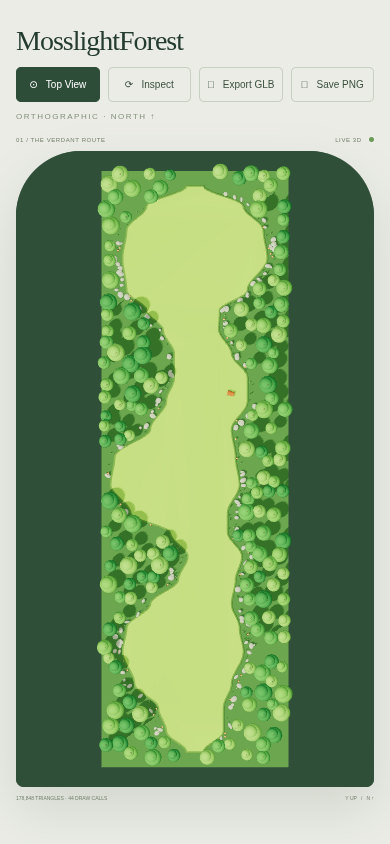
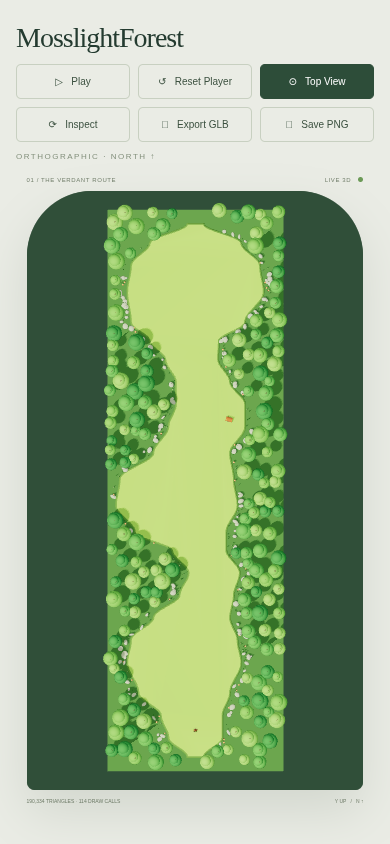
Add playable archer with keyboard and touch movement

Changed region(s): [[0.0308, 0.0308, 0.9846, 0.955]]

diff --git a/src/main.ts b/src/main.ts
@@ -1,4 +1,4 @@
-import './style.css';import * as T from 'three';import {terrain} from './terrain';import {props,chest} from './props';import {lighting} from './lighting';import {cameraSystem} from './camera';import {download,exportLevel} from './export';
-const viewport=document.querySelector<HTMLDivElement>('#viewport')!;const renderer=new T.WebGLRenderer({antialias:true,preserveDrawingBuffer:true});renderer.setPixelRatio(Math.min(devicePixelRatio,1.75));renderer.shadowMap.enabled=true;renderer.shadowMap.type=T.PCFSoftShadowMap;renderer.setClearColor(0x304f39);renderer.outputColorSpace=T.SRGBColorSpace;renderer.toneMapping=T.ACESFilmicToneMapping;renderer.toneMappingExposure=1.12;viewport.appendChild(renderer.domElement);const scene=new T.Scene();const levelRoot=new T.Group();levelRoot.name='levelRoot';levelRoot.add(terrain(),props(),chest());scene.add(levelRoot);lighting(scene);const {camera,controls,top,inspect}=cameraSystem(renderer.domElement);let mode='top';function resize(){renderer.setSize(viewport.clientWidth,viewport.clientHeight);if(mode==='top')top(viewport.clientWidth/viewport.clientHeight)}new ResizeObserver(resize).observe(viewport);resize();function setMode(m:string){mode=m;document.querySelector('#top')!.classList.toggle('active',m==='top');document.querySelector('#inspect')!.classList.toggle('active',m==='inspect');if(m==='top')top(viewport.clientWidth/viewport.clientHeight);else inspect();document.querySelector('#hint')!.textContent=m==='top'?'ORTHOGRAPHIC · NORTH ↑':'DRAG TO ORBIT · SCROLL TO ZOOM · RIGHT-DRAG TO PAN'}document.querySelector('#top')!.addEventListener('click',()=>setMode('top'));document.querySelector('#inspect')!.addEventListener('click',()=>setMode('inspect'));
-async function glb(){return exportLevel(levelRoot)}async function png(){const old=mode;setMode('top');renderer.setPixelRatio(1);renderer.setSize(1080,1920,false);top(9/16);renderer.render(scene,camera);const data=renderer.domElement.toDataURL('image/png');renderer.setPixelRatio(Math.min(devicePixelRatio,1.75));resize();if(old==='inspect')setMode(old);return data}document.querySelector('#glb')!.addEventListener('click',async()=>{const el=document.querySelector('#glb')!;el.textContent='Exporting…';try{const result=await glb();download(new Blob([result.buffer],{type:'model/gltf-binary'}),'forest-level.glb')}finally{el.textContent='↧ Export GLB'}});document.querySelector('#png')!.addEventListener('click',async()=>{const data=await png();const blob=await(await fetch(data)).blob();download(blob,'forest-level.png')});
-renderer.setAnimationLoop(()=>{if(controls.enabled)controls.update();renderer.render(scene,camera);document.querySelector('#stats')!.textContent=`${renderer.info.render.triangles.toLocaleString()} TRIANGLES · ${renderer.info.render.calls} DRAW CALLS`});Object.assign(window,{forest:{glb,png,scene,levelRoot,camera,renderer,setMode,ready:true}});
+import './style.css';import {createPlayer} from './movement';import {createInput} from './input';import * as T from 'three';import {terrain} from './terrain';import {props,chest} from './props';import {lighting} from './lighting';import {cameraSystem} from './camera';import {download,exportLevel} from './export';
+const viewport=document.querySelector<HTMLDivElement>('#viewport')!;const renderer=new T.WebGLRenderer({antialias:true,preserveDrawingBuffer:true});renderer.setPixelRatio(Math.min(devicePixelRatio,1.75));renderer.shadowMap.enabled=true;renderer.shadowMap.type=T.PCFSoftShadowMap;renderer.setClearColor(0x304f39);renderer.outputColorSpace=T.SRGBColorSpace;renderer.toneMapping=T.ACESFilmicToneMapping;renderer.toneMappingExposure=1.12;viewport.appendChild(renderer.domElement);const scene=new T.Scene();const levelRoot=new T.Group();levelRoot.name='levelRoot';levelRoot.add(terrain(),props(),chest());scene.add(levelRoot);lighting(scene);const player=createPlayer(levelRoot);scene.add(player.root);const input=createInput(document.querySelector<HTMLElement>('#joystick')!);const {camera,controls,top,inspect,play}=cameraSystem(renderer.domElement);let mode='top';function resize(){renderer.setSize(viewport.clientWidth,viewport.clientHeight);if(mode==='top')top(viewport.clientWidth/viewport.clientHeight);if(mode==='play')play(viewport.clientWidth/viewport.clientHeight,player.root.position,true)}new ResizeObserver(resize).observe(viewport);resize();function setMode(m:string){mode=m;player.velocity.set(0,0);input.setActive(m==='play');document.querySelector('#play')!.classList.toggle('active',m==='play');document.querySelector('#viewport')!.classList.toggle('playing',m==='play');document.querySelector('#top')!.classList.toggle('active',m==='top');document.querySelector('#inspect')!.classList.toggle('active',m==='inspect');if(m==='top')top(viewport.clientWidth/viewport.clientHeight);else if(m==='play')play(viewport.clientWidth/viewport.clientHeight,player.root.position,true);else inspect();document.querySelector('#hint')!.textContent=m==='play'?'WASD / TOUCH · NORTH ↑':m==='top'?'ORTHOGRAPHIC · NORTH ↑':'DRAG TO ORBIT · SCROLL TO ZOOM · RIGHT-DRAG TO PAN'}document.querySelector('#play')!.addEventListener('click',()=>setMode('play'));document.querySelector('#reset')!.addEventListener('click',()=>{input.clear();player.reset();if(mode==='play')play(viewport.clientWidth/viewport.clientHeight,player.root.position,true)});document.querySelector('#top')!.addEventListener('click',()=>setMode('top'));document.querySelector('#inspect')!.addEventListener('click',()=>setMode('inspect'));
+async function glb(){return exportLevel(levelRoot)}async function png(){const old=mode;const visible=player.root.visible;player.root.visible=false;setMode('top');renderer.setPixelRatio(1);renderer.setSize(1080,1920,false);top(9/16);renderer.render(scene,camera);const data=renderer.domElement.toDataURL('image/png');renderer.setPixelRatio(Math.min(devicePixelRatio,1.75));resize();player.root.visible=visible;setMode(old);return data}document.querySelector('#glb')!.addEventListener('click',async()=>{const el=document.querySelector('#glb')!;el.textContent='Exporting…';try{const result=await glb();download(new Blob([result.buffer],{type:'model/gltf-binary'}),'forest-level.glb')}finally{el.textContent='↧ Export GLB'}});document.querySelector('#png')!.addEventListener('click',async()=>{const data=await png();const blob=await(await fetch(data)).blob();download(blob,'forest-level.png')});
+let lastTime=performance.now();renderer.setAnimationLoop(()=>{const now=performance.now(),dt=(now-lastTime)/1000;lastTime=now;if(mode==='play'){player.update(dt,input.read());play(viewport.clientWidth/viewport.clientHeight,player.root.position,false,dt)}else player.animate(Math.min(dt,.1),0);if(controls.enabled)controls.update();renderer.render(scene,camera);document.querySelector('#stats')!.textContent=`${renderer.info.render.triangles.toLocaleString()} TRIANGLES · ${renderer.info.render.calls} DRAW CALLS`});Object.assign(window,{forest:{player,input,glb,png,scene,levelRoot,camera,renderer,setMode,ready:true}});

diff --git a/src/character.ts b/src/character.ts
@@ -1,0 +1,27 @@
+import * as T from 'three';
+/** Short-haired Archer reference; front faces local -Z. */
+export function createArcher(){
+ const root=new T.Group();root.name='Archer player';const body=new T.Group();root.add(body);
+ const mat=(color:number,metalness=0)=>new T.MeshStandardMaterial({color,roughness:.72,metalness});
+ const skin=mat(0xf0bd89),hair=mat(0x61341e),hairLight=mat(0x804826),green=mat(0x526d24),lime=mat(0x91a73b),leather=mat(0x51382b),gold=mat(0xc69a42,.35),pants=mat(0x35312d),white=mat(0xf5ead2),black=mat(0x211b16),iris=mat(0x86a83b);
+ function mesh(parent:T.Object3D,name:string,geo:T.BufferGeometry,m:T.Material,x:number,y:number,z:number,sx=1,sy=sx,sz=sx){const o=new T.Mesh(geo,m);o.name=name;o.position.set(x,y,z);o.scale.set(sx,sy,sz);o.castShadow=true;parent.add(o);return o}
+ const sphere=new T.SphereGeometry(1,16,12),box=new T.BoxGeometry(1,1,1);
+ function ball(p:T.Object3D,n:string,m:T.Material,x:number,y:number,z:number,a:number,b=a,c=a){return mesh(p,n,sphere,m,x,y,z,a,b,c)}
+ function link(p:T.Object3D,n:string,a:T.Vector3,b:T.Vector3,r:number,m:T.Material){const o=mesh(p,n,new T.CylinderGeometry(r,r*.85,a.distanceTo(b),8),m,0,0,0);o.position.copy(a).add(b).multiplyScalar(.5);o.quaternion.setFromUnitVectors(new T.Vector3(0,1,0),b.clone().sub(a).normalize());return o}
+ const legs:T.Group[]=[];const arms:T.Group[]=[];
+ for(const side of [-1,1]){const leg=new T.Group();leg.position.set(side*.17,.72,0);body.add(leg);legs.push(leg);ball(leg,'Trouser leg',pants,0,-.19,0,.135,.28,.14);ball(leg,'Leather boot',leather,0,-.56,-.055,.16,.16,.23);mesh(leg,'Gold boot cuff',box,gold,0,-.37,0,.29,.09,.29);const arm=new T.Group();arm.position.set(side*.34,1.12,0);body.add(arm);arms.push(arm);ball(arm,'Sleeve',green,0,-.1,0,.15,.2,.16);ball(arm,'Forearm',skin,side*.035,-.33,-.035,.095,.18,.1);mesh(arm,'Bracer',box,leather,side*.04,-.35,-.035,.21,.17,.22);ball(arm,'Gloved hand',leather,side*.04,-.52,-.05,.105);ball(body,'Shoulder armor',gold,side*.32,1.15,0,.19,.085,.2)}
+ ball(body,'Leather cuirass',leather,0,.99,0,.33,.35,.21);mesh(body,'Belt',box,leather,0,.78,-.015,.65,.12,.44);mesh(body,'Buckle',box,gold,0,.78,-.25,.17,.15,.045);mesh(body,'Buckle inset',box,leather,0,.78,-.28,.09,.075,.02);
+ for(const side of [-1,1]){const skirt=mesh(body,'Split green tunic',box,green,side*.18,.64,-.08,.29,.35,.32);skirt.rotation.z=side*.15;mesh(skirt,'Tunic gold hem',box,gold,0,-.46,0,1,.08,1.03)}
+ const cape=new T.Group();cape.position.set(0,1.23,.18);body.add(cape);const shape=new T.Shape();shape.moveTo(-.23,0);shape.quadraticCurveTo(-.42,-.35,-.52,-.88);shape.lineTo(-.22,-.8);shape.lineTo(0,-.99);shape.lineTo(.18,-.82);shape.lineTo(.48,-.9);shape.quadraticCurveTo(.4,-.35,.23,0);shape.closePath();const capeMesh=mesh(cape,'Layered green cape',new T.ExtrudeGeometry(shape,{depth:.035,bevelEnabled:true,bevelSize:.025,bevelThickness:.02,bevelSegments:2,steps:1}),green,0,0,0);capeMesh.rotation.x=-.2;
+ ball(body,'Head',skin,0,1.56,-.015,.31,.32,.28);ball(body,'Hair crown',hair,0,1.77,.025,.34,.22,.29);
+ for(let i=0;i<9;i++){const a=i/9*Math.PI*2;const tuft=mesh(body,'Swept pointed hair lock',new T.ConeGeometry(.145,.36,6),i%2?hair:hairLight,Math.cos(a)*.24,1.8+Math.sin(i*4)*.035,Math.sin(a)*.22);tuft.rotation.z=Math.cos(a)*-.95;tuft.rotation.x=Math.sin(a)*.8}
+ for(const side of [-1,1]){ball(body,'Ear',skin,side*.3,1.54,0,.07,.1,.06);ball(body,'Eye white',white,side*.115,1.56,-.262,.072,.083,.025);ball(body,'Green eye',iris,side*.115,1.56,-.283,.04,.059,.012);ball(body,'Pupil',black,side*.115,1.56,-.293,.02,.043,.007);ball(body,'Eye glint',white,side*.105,1.59,-.3,.012);const brow=mesh(body,'Determined eyebrow',box,hair,side*.12,1.66,-.273,.14,.032,.03);brow.rotation.z=side*-.18}
+ ball(body,'Nose',skin,0,1.48,-.29,.045,.05,.05);mesh(body,'Mouth',box,leather,0,1.39,-.26,.09,.014,.012);
+ const scarf=mesh(body,'Green scarf collar',new T.TorusGeometry(.28,.1,8,24),lime,0,1.3,-.015);scarf.rotation.x=Math.PI/2;ball(body,'Scarf front fold',green,0,1.22,-.22,.3,.13,.1);
+ const strap=mesh(body,'Diagonal quiver strap',box,gold,0,1.02,-.219,.08,.58,.035);strap.rotation.z=-.58;
+ const quiver=new T.Group();quiver.position.set(-.23,1.12,.29);quiver.rotation.z=-.35;body.add(quiver);mesh(quiver,'Leather quiver',new T.CylinderGeometry(.13,.1,.55,12),leather,0,0,0);for(const y of [-.23,.23]){const rim=mesh(quiver,'Quiver gold rim',new T.TorusGeometry(.13,.022,6,16),gold,0,y,0);rim.rotation.x=Math.PI/2}for(let i=0;i<5;i++){const x=(i%3-1)*.07,z=Math.floor(i/3)*.08;link(quiver,'Arrow shaft',new T.Vector3(x,.1,z),new T.Vector3(x,.68,z),.012,leather);const f=mesh(quiver,'White feather fletching',new T.ConeGeometry(.052,.19,4),white,x,.6,z);f.rotation.z=.15}
+ const bow=new T.Group();arms[1].add(bow);bow.position.set(.11,-.45,-.1);const curve=new T.CatmullRomCurve3([new T.Vector3(0,-.52,0),new T.Vector3(.2,-.3,0),new T.Vector3(.23,0,0),new T.Vector3(.2,.3,0),new T.Vector3(0,.52,0)]);mesh(bow,'Golden recurved bow',new T.TubeGeometry(curve,24,.035,6,false),gold,0,0,0);link(bow,'Bow string',new T.Vector3(0,-.52,0),new T.Vector3(0,.52,0),.007,white);mesh(bow,'Bow grip',box,leather,.23,0,0,.09,.17,.08);
+ // Soft contact shadow, separate from all environment exports.
+ const canvas=document.createElement('canvas');canvas.width=64;canvas.height=64;const ctx=canvas.getContext('2d')!;const gradient=ctx.createRadialGradient(32,32,0,32,32,32);gradient.addColorStop(0,'rgba(24,40,20,.3)');gradient.addColorStop(1,'rgba(24,40,20,0)');ctx.fillStyle=gradient;ctx.fillRect(0,0,64,64);const shadow=new T.Mesh(new T.PlaneGeometry(1.5,1.5),new T.MeshBasicMaterial({map:new T.CanvasTexture(canvas),transparent:true,depthWrite:false}));shadow.rotation.x=-Math.PI/2;shadow.position.y=.006;root.add(shadow);
+ let phase=0;return{root,animate(dt:number,speed:number){phase+=dt*(speed>.05?10:2);const walking=Math.min(1,speed/4.8);body.position.y=Math.sin(phase*2)*.025*walking+Math.sin(phase)*.009*(1-walking);legs.forEach((l,i)=>l.rotation.x=Math.sin(phase+i*Math.PI)*.5*walking);arms.forEach((a,i)=>a.rotation.x=-Math.sin(phase+i*Math.PI)*.3*walking);cape.rotation.x=Math.sin(phase)*.04+walking*.12}};
+}

diff --git a/src/style.css b/src/style.css
@@ -1,2 +1,3 @@
 *{box-sizing:border-box}body{margin:0;background:#eaece5;color:#243b30;font-family:Arial,sans-serif}#app{min-height:100vh;display:flex;justify-content:center;gap:70px;padding:40px}aside{width:280px;position:relative;padding-top:12px;display:flex;flex-direction:column}.brand{font:bold 38px Georgia;color:#244631;text-decoration:none;margin-bottom:46px}.brand span{color:#86a16a;font-size:27px}.eyebrow{font-size:10px;letter-spacing:2px;font-weight:600;color:#73816f}h1{font:normal 58px/.98 Georgia,serif;letter-spacing:-2px;margin:20px 0}.intro{font:italic 20px/1.5 Georgia;color:#71816a;margin:0 0 28px}.rule{height:1px;background:#ccd2c6;margin-bottom:28px}.description{font-size:13px;line-height:1.8;color:#748071;margin:13px 0 25px}.spec{display:grid;grid-template-columns:1fr 1.4fr;gap:15px;font-size:11px}.spec span{font-size:9px;letter-spacing:1px;color:#8a9586}.spec b{font-weight:400}.toolbar{display:grid;grid-template-columns:1fr 1fr;gap:8px;margin-top:30px}button{padding:13px 8px;border:1px solid #c8d0c1;background:transparent;border-radius:5px;color:#3c5140;cursor:pointer;font-size:12px}button:hover{background:#dbe2d3}button.active{background:#2d4d39;color:#fff;border-color:#2d4d39}#hint{font-size:9px;letter-spacing:1.5px;color:#83907c;margin:16px 0}.footer{margin-top:auto;padding-top:35px;font-size:8px;letter-spacing:1.2px;color:#899381}main{width:min(47vh,500px);min-width:320px}.preview-heading,.preview-footer{display:flex;justify-content:space-between;font-size:8px;letter-spacing:1.3px;color:#76826f;padding:10px 0 16px}.preview-heading i{display:inline-block;background:#6c9a57;width:5px;height:5px;border-radius:50%;margin-left:5px}#viewport{width:100%;aspect-ratio:9/16;background:#304d38;border-radius:100px 100px 9px 9px;overflow:hidden;box-shadow:0 22px 50px #273e2920}canvas{display:block;width:100%;height:100%;touch-action:none}.preview-footer{font-size:7px;padding-top:16px;letter-spacing:.8px}@media(min-height:950px){main{width:490px}}@media(max-width:750px){#app{padding:20px;gap:25px;flex-direction:column;align-items:center}aside{width:min(100%,440px);padding:0}.brand,.eyebrow,.intro,.rule,.description,.spec,.footer{display:none}h1{font-size:34px;margin:0 0 16px}.toolbar{margin:0;grid-template-columns:repeat(4,1fr)}#hint{margin-bottom:0}main{width:min(100%,440px);min-width:0}#viewport{border-radius:65px 65px 8px 8px}}
 @media(max-width:750px){#app{gap:8px;padding:16px}aside{width:100%}h1{font-size:28px;line-height:1;letter-spacing:-1px;margin:0 0 12px}h1 br{display:none}button{font-size:10px;padding:11px 3px;white-space:nowrap}#hint{font-size:8px;margin:10px 0 0}main{width:min(100%,calc((100svh - 205px)*.5625))}.preview-heading{font-size:6px;letter-spacing:.6px;padding:8px 0}.preview-footer{font-size:5px;letter-spacing:0;padding-top:8px}}
+#viewport{position:relative}#joystick{display:none;position:absolute;z-index:2;bottom:26px;left:20px;width:112px;height:112px;border:1px solid #ffffff75;background:#ffffff20;border-radius:50%;touch-action:none;user-select:none}#joystick span{position:absolute;left:35px;top:35px;width:40px;height:40px;border-radius:50%;background:#f3e7bdcc;box-shadow:0 2px 12px #1e3a3050;pointer-events:none}#play-tip{display:none;position:absolute;bottom:12px;left:0;right:0;text-align:center;font-size:8px;letter-spacing:1px;color:#f5f0d5;pointer-events:none}.playing #play-tip{display:block}@media(pointer:coarse){#joystick.enabled{display:block}.playing #play-tip{top:15px;bottom:auto}}@media(max-width:750px){.toolbar{grid-template-columns:repeat(3,1fr)}main{width:min(100%,calc((100svh - 245px)*.5625))}h1 br:after{content:' '}}

diff --git a/index.html b/index.html
@@ -1,1 +1,1 @@
-<!doctype html><html lang="en"><head><meta charset="UTF-8"><meta name="viewport" content="width=device-width, initial-scale=1"><link rel="icon" href="data:,"><title>Mosslight · Forest atelier</title></head><body><div id="app"><aside><a class="brand" href="/">m<span>✳</span></a><div class="eyebrow">THE WORLD ATELIER / 001</div><h1>Mosslight<br>Forest</h1><p class="intro">A little wilderness.<br>A grand adventure.</p><div class="rule"></div><div class="eyebrow">FOREST EXPEDITION</div><p class="description">Seven clearings woven through a sunlit canopy. Follow the winding meadow from the quiet southern gate to the ancient northern grove.</p><div class="spec"><span>BIOME</span><b>Verdant woodland</b><span>FOOTPRINT</span><b>40 × 140 m</b><span>GENERATION</span><b>Seed 7241 · fixed</b></div><div class="toolbar"><button id="top" class="active">⊙ &nbsp; Top View</button><button id="inspect">⟳ &nbsp; Inspect</button><button id="glb">↧ &nbsp; Export GLB</button><button id="png">↧ &nbsp; Save PNG</button></div><p id="hint">ORTHOGRAPHIC · NORTH ↑</p><div class="footer">PROCEDURAL WORLDS, THOUGHTFULLY MADE.</div></aside><main><div class="preview-heading"><span>01 / THE VERDANT ROUTE</span><span>LIVE 3D <i></i></span></div><div id="viewport"></div><div class="preview-footer"><span id="stats">Preparing the forest…</span><span>Y UP &nbsp; / &nbsp; N ↑</span></div></main></div><script type="module" src="/src/main.ts"></script></body></html>
+<!doctype html><html lang="en"><head><meta charset="UTF-8"><meta name="viewport" content="width=device-width, initial-scale=1"><link rel="icon" href="data:,"><title>Mosslight · Forest atelier</title></head><body><div id="app"><aside><a class="brand" href="/">m<span>✳</span></a><div class="eyebrow">THE WORLD ATELIER / 001</div><h1>Mosslight<br>Forest</h1><p class="intro">A little wilderness.<br>A grand adventure.</p><div class="rule"></div><div class="eyebrow">FOREST EXPEDITION</div><p class="description">Seven clearings woven through a sunlit canopy. Follow the winding meadow from the quiet southern gate to the ancient northern grove.</p><div class="spec"><span>BIOME</span><b>Verdant woodland</b><span>FOOTPRINT</span><b>40 × 140 m</b><span>GENERATION</span><b>Seed 7241 · fixed</b></div><div class="toolbar"><button id="play">▷ &nbsp; Play</button><button id="reset">↺ &nbsp; Reset Player</button><button id="top" class="active">⊙ &nbsp; Top View</button><button id="inspect">⟳ &nbsp; Inspect</button><button id="glb">↧ &nbsp; Export GLB</button><button id="png">↧ &nbsp; Save PNG</button></div><p id="hint">ORTHOGRAPHIC · NORTH ↑</p><div class="footer">PROCEDURAL WORLDS, THOUGHTFULLY MADE.</div></aside><main><div class="preview-heading"><span>01 / THE VERDANT ROUTE</span><span>LIVE 3D <i></i></span></div><div id="viewport"><div id="joystick" aria-label="Movement joystick"><span></span></div><div id="play-tip">WASD TO MOVE · EXPLORE THE GROVE</div></div><div class="preview-footer"><span id="stats">Preparing the forest…</span><span>Y UP &nbsp; / &nbsp; N ↑</span></div></main></div><script type="module" src="/src/main.ts"></script></body></html>

diff --git a/src/camera.ts b/src/camera.ts
@@ -1,1 +1,1 @@
-import * as T from 'three';import {OrbitControls} from 'three/addons/controls/OrbitControls.js';export function cameraSystem(canvas:HTMLCanvasElement){const camera=new T.OrthographicCamera(-45,45,80,-80,.1,500);camera.up.set(0,0,-1);const controls=new OrbitControls(camera,canvas);controls.enableDamping=true;controls.minZoom=.5;controls.maxZoom=5;controls.maxPolarAngle=Math.PI*.48;function top(aspect:number){controls.enableDamping=false;controls.update();const h=Math.max(160,53/aspect),w=h*aspect;Object.assign(camera,{left:-w/2,right:w/2,top:h/2,bottom:-h/2,zoom:1});camera.position.set(0,190,0);camera.up.set(0,0,-1);camera.lookAt(0,0,0);camera.updateProjectionMatrix();controls.target.set(0,0,0);controls.enabled=false}function inspect(){controls.enableDamping=true;camera.up.set(0,1,0);camera.position.set(70,110,90);controls.enabled=true;controls.target.set(0,0,0);controls.update()}return{camera,controls,top,inspect}}
+import * as T from 'three';import {OrbitControls} from 'three/addons/controls/OrbitControls.js';export function cameraSystem(canvas:HTMLCanvasElement){const camera=new T.OrthographicCamera(-45,45,80,-80,.1,500);camera.up.set(0,0,-1);const controls=new OrbitControls(camera,canvas);controls.enableDamping=true;controls.minZoom=.5;controls.maxZoom=5;controls.maxPolarAngle=Math.PI*.48;function top(aspect:number){controls.enableDamping=false;controls.update();const h=Math.max(160,53/aspect),w=h*aspect;Object.assign(camera,{left:-w/2,right:w/2,top:h/2,bottom:-h/2,zoom:1});camera.position.set(0,190,0);camera.up.set(0,0,-1);camera.lookAt(0,0,0);camera.updateProjectionMatrix();controls.target.set(0,0,0);controls.enabled=false}function inspect(){controls.enableDamping=true;camera.up.set(0,1,0);camera.position.set(70,110,90);controls.enabled=true;controls.target.set(0,0,0);controls.update()}function play(aspect:number,target:T.Vector3,snap=false,dt=0){controls.enabled=false;controls.enableDamping=false;const h=16,w=h*aspect;Object.assign(camera,{left:-w/2,right:w/2,top:h/2,bottom:-h/2,zoom:1});const wanted=new T.Vector3(target.x,55,target.z);if(snap)camera.position.copy(wanted);else camera.position.lerp(wanted,1-Math.exp(-9*dt));camera.up.set(0,0,-1);camera.lookAt(camera.position.x,0,camera.position.z);camera.updateProjectionMatrix()}return{camera,controls,top,inspect,play}}

diff --git a/src/collision.ts b/src/collision.ts
@@ -1,0 +1,11 @@
+import * as T from 'three';import {crossSection} from './level-data';
+export const PLAYER_RADIUS=.48;
+export function createCollision(root:T.Group){root.updateMatrixWorld(true);const obstacles:{x:number,z:number,r:number}[]=[];root.traverse(n=>{if(n instanceof T.InstancedMesh&&['Trunks','Boundary stones'].includes(n.name)){const m=new T.Matrix4(),p=new T.Vector3(),q=new T.Quaternion(),s=new T.Vector3();for(let i=0;i<n.count;i++){n.getMatrixAt(i,m);m.premultiply(n.matrixWorld);m.decompose(p,q,s);obstacles.push({x:p.x,z:p.z,r:n.name==='Trunks'?.34:Math.max(s.x,s.z)})}}});const chest=root.getObjectByName('Treasure chest')!;const inverse=chest.matrixWorld.clone().invert();
+ function valid(x:number,z:number){if(z>71-PLAYER_RADIUS||z< -71+PLAYER_RADIUS)return false;
+ // Sample the player's perimeter rather than shrinking only horizontal sections.
+ for(let i=0;i<16;i++){const a=i*Math.PI/8,px=x+Math.cos(a)*PLAYER_RADIUS,pz=z+Math.sin(a)*PLAYER_RADIUS,s=crossSection(pz);if(Math.abs(px-s.x)>=s.r||Math.abs(pz)>=71)return false}
+ if(obstacles.some(o=>(x-o.x)**2+(z-o.z)**2<(o.r+PLAYER_RADIUS)**2))return false;const local=new T.Vector3(x,0,z).applyMatrix4(inverse);const dx=Math.max(Math.abs(local.x)-.94,0),dz=Math.max(Math.abs(local.z)-.69,0);return dx*dx+dz*dz>=PLAYER_RADIUS**2}
+ function move(position:T.Vector3,dx:number,dz:number){const steps=Math.max(1,Math.ceil(Math.hypot(dx,dz)/.08));dx/=steps;dz/=steps;for(let i=0;i<steps;i++){if(valid(position.x+dx,position.z+dz)){position.x+=dx;position.z+=dz;continue} // Tangent search provides sliding even on steep curved edges.
+ const length=Math.hypot(dx,dz);let best=0,bx=0,bz=0;for(let j=0;j<32;j++){const a=j*Math.PI/16,x=Math.cos(a),z=Math.sin(a),projection=dx*x+dz*z;if(projection>best&&projection>length*.08&&valid(position.x+x*projection,position.z+z*projection)){best=projection;bx=x*projection;bz=z*projection}}position.x+=bx;position.z+=bz}}
+ return{valid,move,obstacles};
+}

diff --git a/src/input.ts b/src/input.ts
@@ -1,0 +1,9 @@
+import {Vector2} from 'three';
+export function createInput(joystick:HTMLElement){const keys=new Set<string>();const touch=new Vector2();let active=false,pointer:number|null=null;const knob=joystick.querySelector<HTMLElement>('span')!;
+ const typing=()=>{const el=document.activeElement as HTMLElement|null;return !!el&&(el.matches('input,textarea,select')||el.isContentEditable)};
+ function clear(){keys.clear();touch.set(0,0);pointer=null;knob.style.transform='translate(0px,0px)'}
+ window.addEventListener('keydown',e=>{if(active&&!typing()&&['KeyW','KeyA','KeyS','KeyD'].includes(e.code)){keys.add(e.code);e.preventDefault()}});window.addEventListener('keyup',e=>keys.delete(e.code));window.addEventListener('blur',clear);document.addEventListener('visibilitychange',()=>{if(document.hidden)clear()});document.addEventListener('focusin',()=>{if(typing())clear()});
+ function move(e:PointerEvent){if(e.pointerId!==pointer)return;const b=joystick.getBoundingClientRect();touch.set((e.clientX-b.x-b.width/2)/38,(e.clientY-b.y-b.height/2)/38).clampLength(0,1);knob.style.transform=`translate(${touch.x*38}px,${touch.y*38}px)`;e.preventDefault()}
+ joystick.addEventListener('pointerdown',e=>{if(!active||pointer!==null)return;pointer=e.pointerId;joystick.setPointerCapture(pointer);move(e)});joystick.addEventListener('pointermove',move);for(const type of ['pointerup','pointercancel','lostpointercapture'])joystick.addEventListener(type,clear);
+ return{clear,setActive(value:boolean){active=value;clear();joystick.classList.toggle('enabled',value)},read(){if(!active||typing())return new Vector2();const v=new Vector2(Number(keys.has('KeyD'))-Number(keys.has('KeyA')),Number(keys.has('KeyS'))-Number(keys.has('KeyW'))).add(touch);return v.clampLength(0,1)}};
+}

diff --git a/src/movement.ts b/src/movement.ts
@@ -1,0 +1,6 @@
+import * as T from 'three';import {createArcher} from './character';import {createCollision} from './collision';
+export function createPlayer(environment:T.Group){const character=createArcher(),collision=createCollision(environment);const velocity=new T.Vector2();let distance=0;
+ function reset(){character.root.position.set(0,.2,64);character.root.rotation.y=0;velocity.set(0,0)}reset();
+ function update(dt:number,input:T.Vector2){dt=Math.min(Math.max(dt,0),.5);const steps=Math.max(1,Math.ceil(dt/(1/120)));const h=dt/steps;for(let i=0;i<steps;i++){const target=input.clone().multiplyScalar(4.8);const acceleration=input.lengthSq()>0?24:32;const delta=target.sub(velocity);delta.clampLength(0,acceleration*h);velocity.add(delta);const old=character.root.position.clone();collision.move(character.root.position,velocity.x*h,velocity.y*h);const moved=character.root.position.clone().sub(old);distance+=moved.length();if(moved.lengthSq()>1e-9){const angle=Math.atan2(-moved.x,-moved.z),current=character.root.rotation.y;character.root.rotation.y=current+Math.atan2(Math.sin(angle-current),Math.cos(angle-current))*(1-Math.exp(-18*h))}character.animate(h,moved.length()/h)}}
+ return{...character,collision,velocity,reset,update,get distance(){return distance}};
+}

diff --git a/README.md b/README.md
@@ -22,3 +22,13 @@ All exportable objects belong to `levelRoot`, grouped into Terrain, Forest bound
 `npm run validate` uses Playwright and `/usr/bin/chromium` with software WebGL to capture desktop/mobile views, exercise orbit/reset, create `artifacts/forest-level.glb` and `artifacts/forest-level.png`, and reload the GLB into a fresh scene. Results, actual triangle/draw-call counts and console errors are in `artifacts/validation.json`. Chromium executable path can be adjusted in `scripts/validate.mjs` for another machine. Draw calls include the shadow pass; hardware frame-rate performance is not established by software rendering.
 
 Use the existing checkout in each isolated cloud task; no additional worktree is needed. Live preview processes must be restarted in new tasks.
+
+## Archer movement prototype
+
+Click **Play** for a north-up overhead follow camera. WASD moves relative to the screen; diagonal input is normalized. On touch devices, drag the lower-left joystick. **Reset Player** returns to the southern clearing. Top View and Inspect pause movement and clear input. Switching tabs clears held keys. Typing in fields does not move the player.
+
+The player remains outside `levelRoot` and is omitted from both environment GLB and clean PNG exports. `character.ts` builds and animates the short-haired male Archer from the upper-left reference: brown swept hair, green scarf/cape/tunic, leather armor, gold trim, boots, bow, quiver and white-fletched arrows. Back/side details are conservative procedural approximations: plain layered cape and cylindrical leather quiver, simplified armor, face, hair locks and bow engravings. No other character classes or combat systems are included.
+
+`input.ts` owns keyboard and touch input; `movement.ts` integrates acceleration/deceleration at up to 120 Hz, smooth facing and idle/walk animation; `collision.ts` samples a 0.48-unit-radius footprint against the existing walkable outline and derived trunk/rock/chest obstacles. Movement is subdivided to at most 0.08 units with tangent sliding. Frame gaps above 0.5 seconds are capped to avoid jumps after long suspension. `camera.ts` owns Play/Top/Inspect projections and smooth following.
+
+Run `node scripts/validate-player.mjs` with the local dev server active for interaction and traversal checks. This uses the same Chromium setup as `npm run validate`. Evidence and screenshots are in `artifacts/player-validation.json`, `play-mode.png`, `player-mobile.png`, and `archer-closeup.png`. Synthetic input and software WebGL checks do not substitute for physical mobile-device performance testing.
